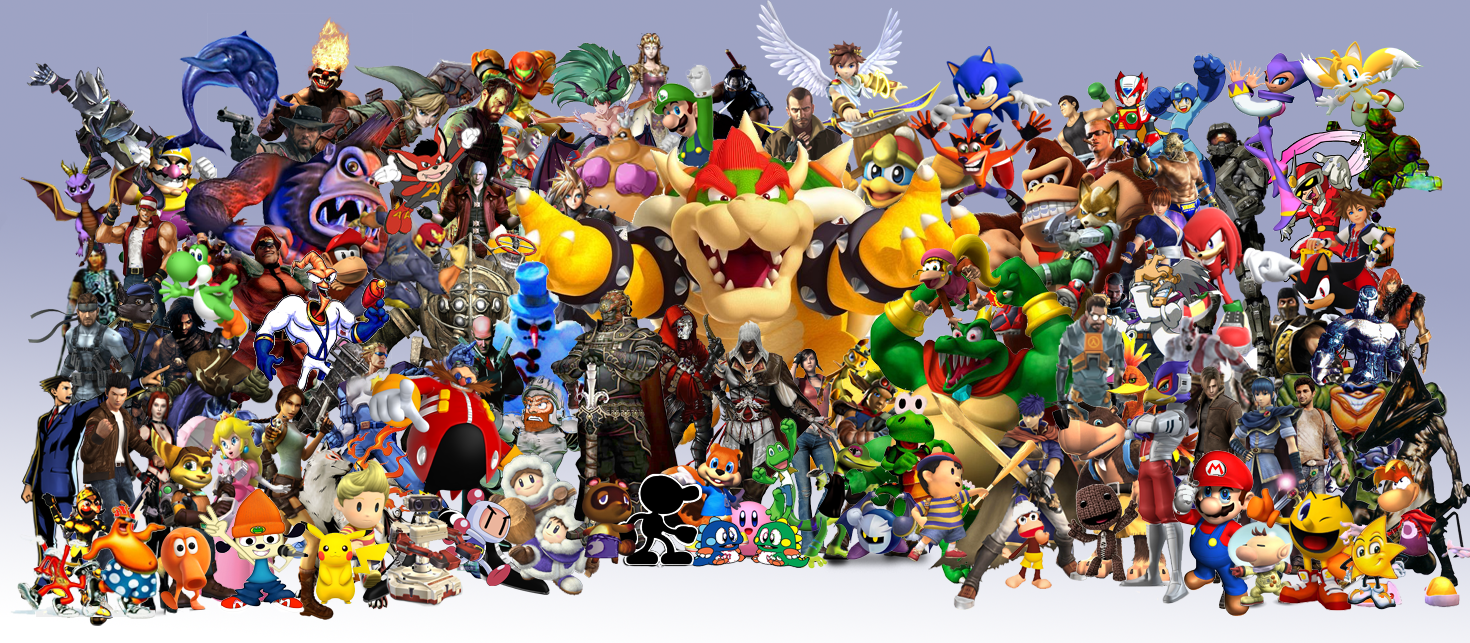
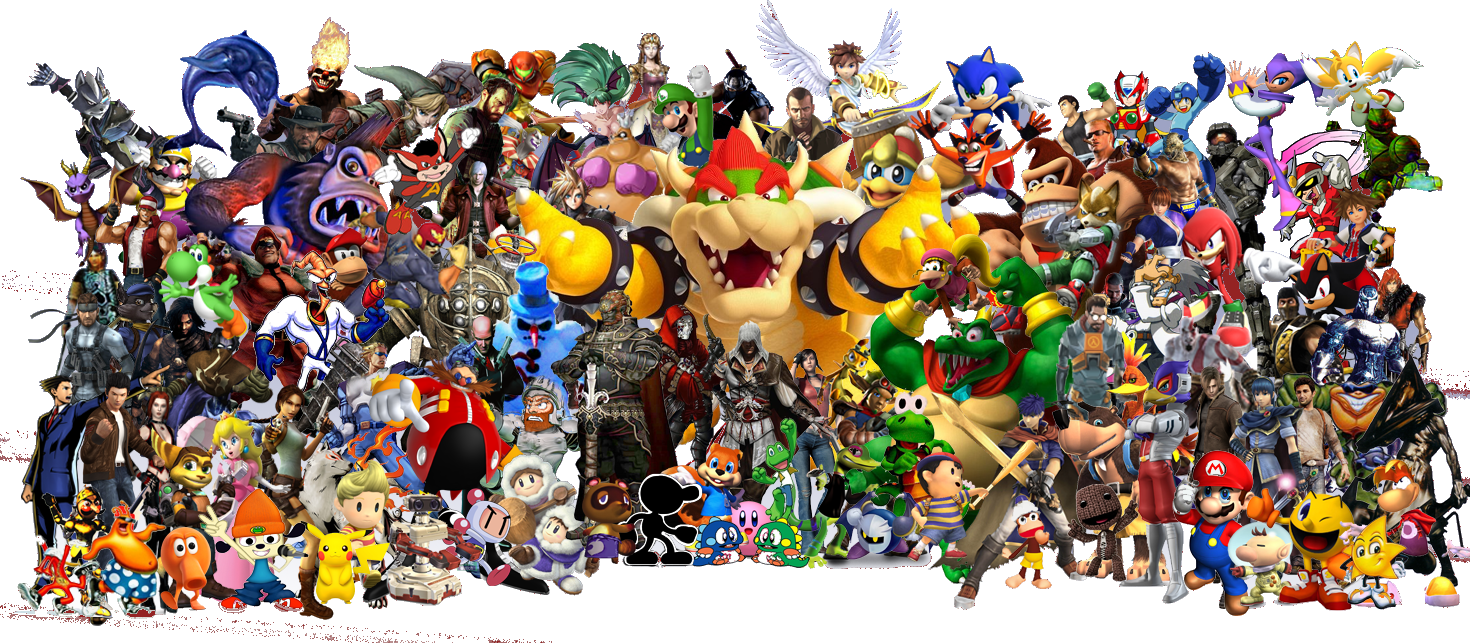
edited easy and medium difficulties images to remove neutral background colors to an alpha layer for png transparency, changed overflow on hard character objectives images to prevent hidden images

diff --git a/src/components/CharacterImages.js b/src/components/CharacterImages.js
@@ -11,15 +11,14 @@ const CurrentObjectives = () => {
     let parsedList = JSON.parse(jsonCharacterList);
     let characterKeys = Object.keys(parsedList);
 
+    //TODO take the newly added image id's and associate them somehow with a truthy character dropdown list selection so that the image transitions out of the image list
     const populateImages = () => {
         if (difficulty === "easy") {
-            return easyCharacterImages.map((element, index) => <img id={`character-image-${index}`} className={"current-objective-images"} key={`key-${index}`} src={element}></img>)
+            return easyCharacterImages.map((element, index) => <img id={`image-${easyCharacterImages[index]}`} className={"current-objective-images"} key={`key-${index}`} src={element}></img>)
         } else if (difficulty === "medium") {
-            return mediumCharacterImages.map((element, index) => <img id={`character-image-${index}`} className={"current-objective-images"} key={`key-${index}`} src={element}></img>)
-
+            return mediumCharacterImages.map((element, index) => <img id={`image-${mediumCharacterImages[index]}`} className={"current-objective-images"} key={`key-${index}`} src={element}></img>)
         } else if (difficulty === "hard") {
-            return hardCharacterImages.map((element, index) => <img id={`character-image-${index}`} className={"current-objective-images"} key={`key-${index}`} src={element}></img>)
-
+            return hardCharacterImages.map((element, index) => <img id={`image-${hardCharacterImages[index]}`} className={"current-objective-images"} key={`key-${index}`} src={element}></img>)
         }
     }
     return (

diff --git a/src/imageExports.js b/src/imageExports.js
@@ -1,11 +1,11 @@
 //this file is used as a library to deal specifically with exporting the character images to keep import statements from cluttering my components
 
 export { default as hardImage } from "./media/dota.jpg";
-export { default as easyImage } from "./media/fighting-game-characters.webp";
+export { default as easyImage } from "./media/fighting-game-characters.png";
 export { default as mediumImage } from "./media/misc-characters.png";
 export { default as guile } from "./media/character-images/easy-mode/guile.png";
 export { default as ironman } from "./media/character-images/easy-mode/ironman.png";
-export { default as leo } from "./media/character-images/easy-mode/leo.webp";
+export { default as leo } from "./media/character-images/easy-mode/leo.png";
 export { default as scorpion } from "./media/character-images/easy-mode/scorpion.png";
 export { default as ryu } from "./media/character-images/easy-mode/ryu.png";
 export { default as venom } from "./media/character-images/easy-mode/venom.png";

diff --git a/src/App.css b/src/App.css
@@ -63,13 +63,16 @@
 
  #current-objectives {
      display: flex;
-     justify-content: center;
+     justify-content: space-around;
  }
-.current-objective-images{
-    max-width: 300px;
-    max-height: 150px;
-    align-items: center;
-}
+
+ /* overflow set to auto,scroll, or hidden keeps the images from the hard difficulty from overflowing the parent container but doesnt actually hide any of the images for some reason which is what is needed. */
+ .current-objective-images {
+     max-width: 300px;
+     max-height: 150px;
+     overflow: auto;
+ }
+
  #photo-tagging-image {
      margin: auto;
      background-image: url(./media/misc-characters.png);

diff --git a/src/components/CoordinatesTool.js b/src/components/CoordinatesTool.js
@@ -1,6 +1,5 @@
 //this component is a tool for developing the app and is not intended tofully cooperate with react by using states and other react library tools, this component will not be interacted with by the user ever.
 //if you are having trouble getting this to drag you may need to mock a state in the parent component and set it during a click event to get it to render the drag and resize
-
 import { initializeApp } from "firebase/app";
 import { getFirestore } from "firebase/firestore";
 import { collection, setDoc, doc } from "firebase/firestore";
